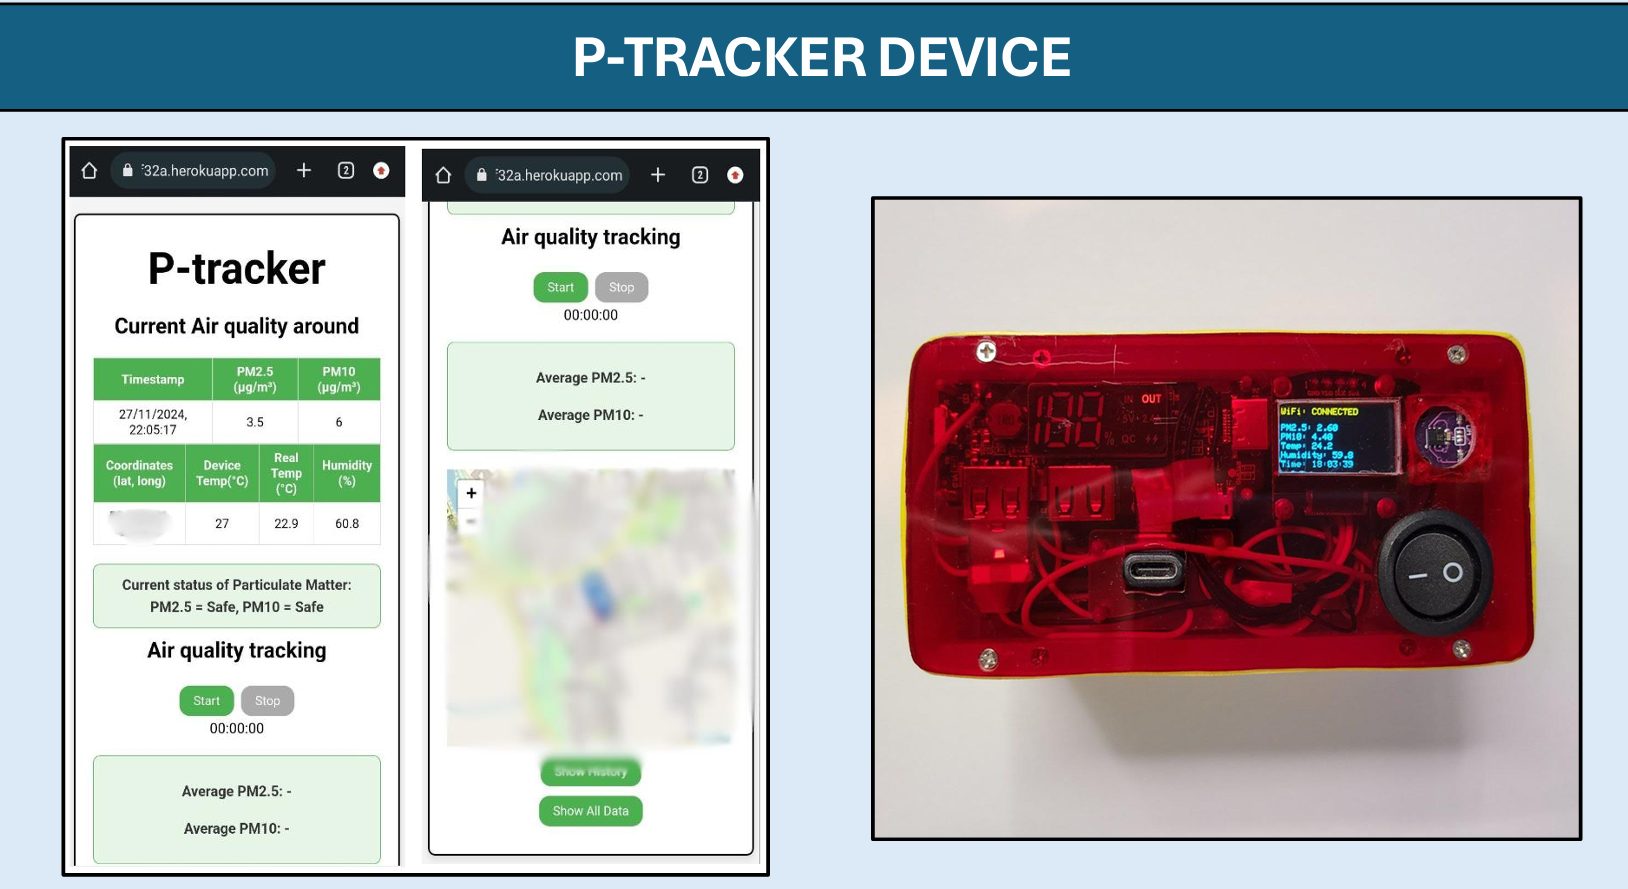
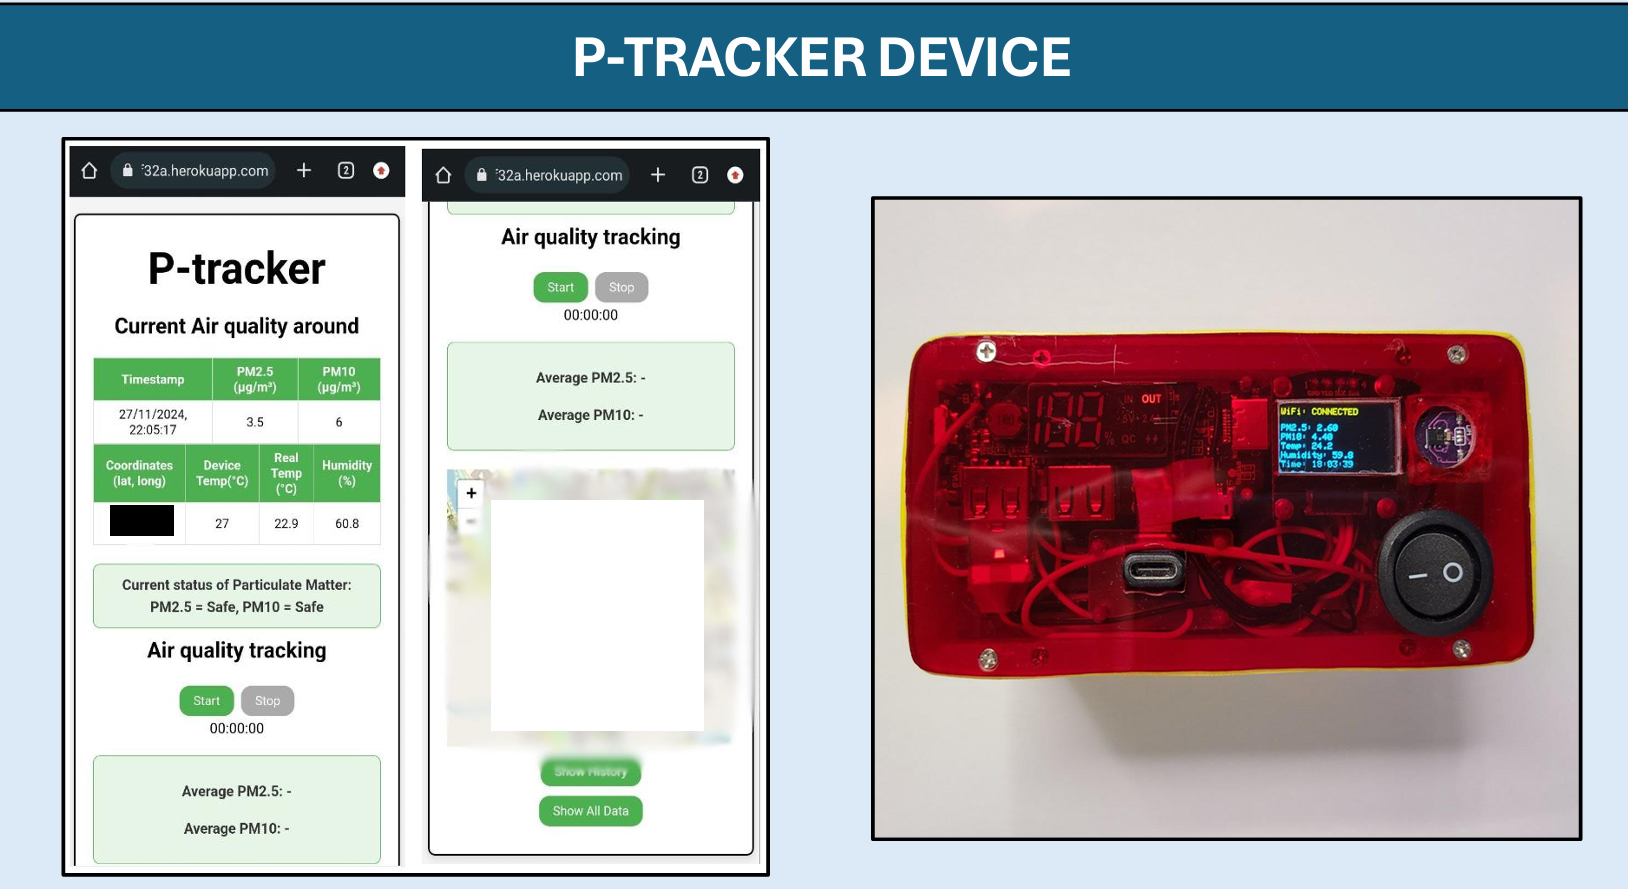
updt

Changed region(s): [[0.2764, 0.5467, 0.43, 0.82], [0.0614, 0.5467, 0.1229, 0.6074]]

diff --git a/README.md b/README.md
@@ -1,5 +1,11 @@
 # Welcome !
-
 # Low-cost Air Quality Device P-tracker
 
+**README**
+ESP32 code is in the ESP32_code folder, its an Arduino ino file.
+The Website is in the **WEBSITE_code folder**, this folder contain all code and files related to the website.
+
+
+# P-tracker images:
  ![image alt](https://github.com/INNDVISION/ptracker/blob/main/Photos/ptracker.PNG?raw=true)
+ ![image alt](https://github.com/INNDVISION/ptracker/blob/main/Photos/ptracker2.PNG?raw=true)
